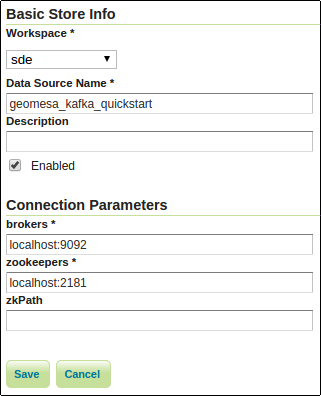
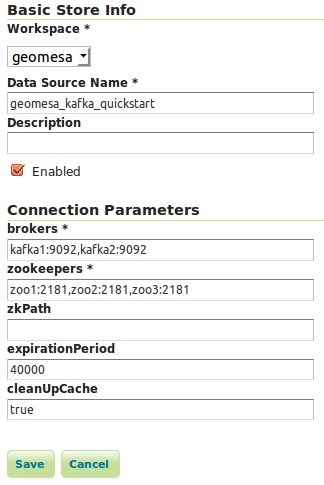
Updates to geomesa-kafka-quickstart

Changed region(s): [[0.0, 0.0, 1.0, 1.0], [0.0, 0.9091, 0.3738, 1.0]]

diff --git a/_posts/2015-06-09-geomesa-kafka-quickstart.md b/_posts/2015-06-09-geomesa-kafka-quickstart.md
@@ -17,7 +17,7 @@ This quickstart tutorial is bundled as a Java program which will introduce how t
 
 ## Prerequisites
 
-* basic knowledge of [GeoTools](http://www.geotools.org), [GeoServer](http://geoser!!ver.org), and Kafka
+* basic knowledge of [GeoTools](http://www.geotools.org), [GeoServer](http://geoserver.org), and Kafka
 * access to a Kafka 0.8.2.x server with an appropriate Zookeeper instance(s)
 * access to GeoServer version 2.5.2
 * a local copy of the Java Development Kit 1.7.x
@@ -59,6 +59,7 @@ Select the `Kafka Data Store` vector data source and enter the following paramet
     * `data source name`:  pick a sensible name, such as, `geomesa_kafka_quickstart`
     * `description`:  this is strictly decorative; `GeoMesa Kafka quick start`
 * connection parameters:  these are the same parameter values that you supplied on the command-line when you ran the tutorial; they describe how to connect to the Kafka instance where your data resides
+    * `timeout`: how long the data will be available, in milliseconds
 
 Note: If you left out the zkPath command line argument when running the quickstart program, you can leave the zkPath connection parameter in GeoServer empty. 
 
@@ -124,6 +125,6 @@ fid:1 | name:James | age:59 | dtg:Sat Jan 24 06:26:44 EST 2015 | geom:POINT (132
 
 Since the source code for this quickstart is accessible, it is advised to follow along in the code to get a deeper understanding of what's really going on.
 
-Given a stream of geospatial data, GeoMesa's integration with Kafka enables users to maintain a real time state of SimpleFeatures or retrieve any arbitrary state preserved in history. One can additionally process and analyze streams of data by integrating a data processing system like [Storm](https://storm.apache.org/) or [Samza](http://samza.apache.org).
+Given a stream of geospatial data, GeoMesa's integration with Kafka enables users to maintain a real time state of SimpleFeatures or retrieve any arbitrary state preserved in history. One can additionally process and analyze streams of data by integrating a data processing system like [Storm](https://storm.apache.org/) or [Samza](http://samza.apache.org).  We have a [tutorial](http://www.geomesa.org/geomesa-osm-analysis/) on using Storm with GeoMesa.
 
 For additional information about the KafkaDataStore, see the [readme](https://github.com/locationtech/geomesa/blob/master/geomesa-kafka/geomesa-kafka-datastore/README.md) on github.
